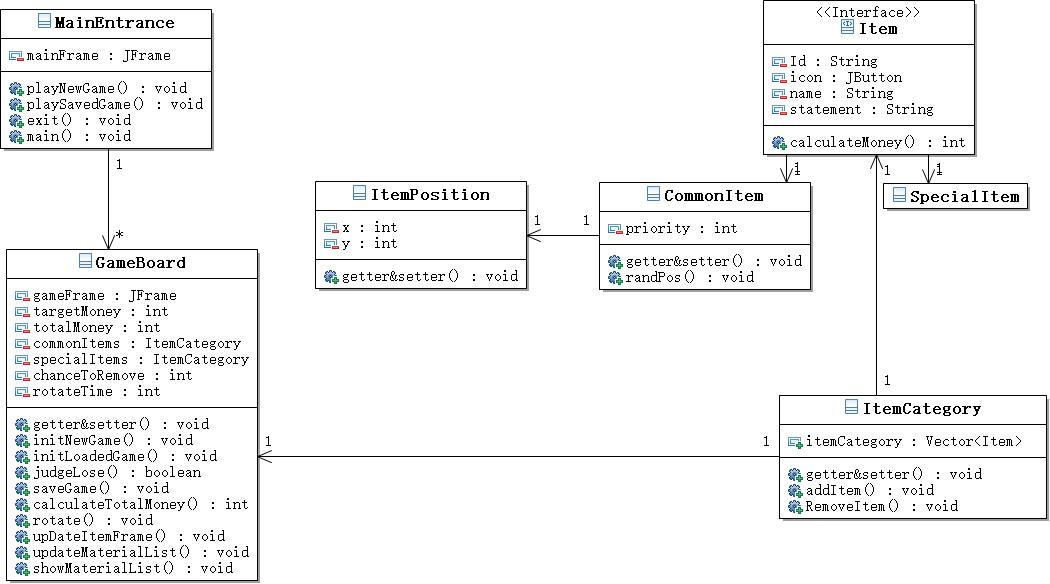
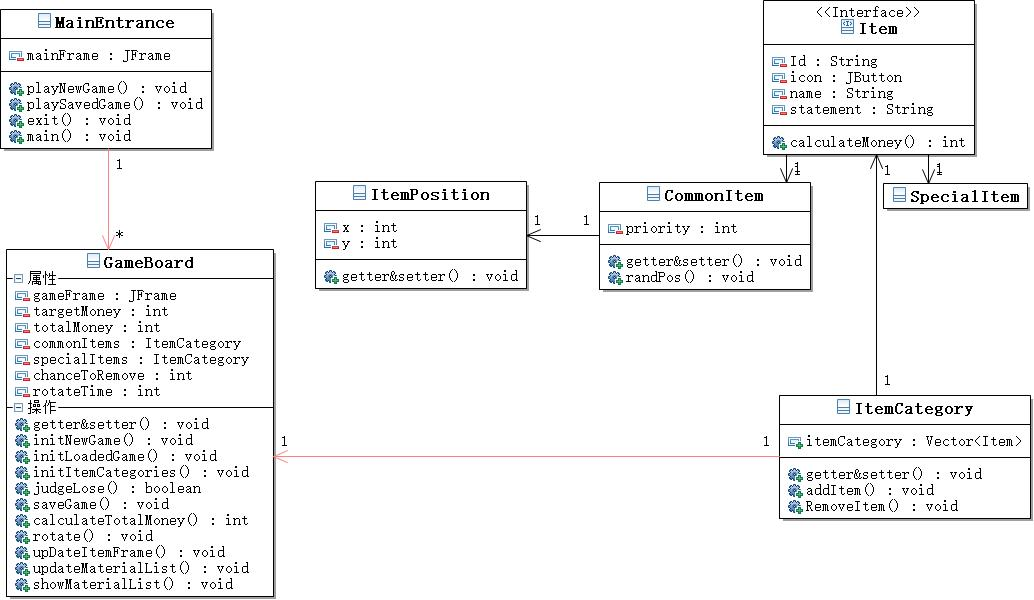
更新了GameBoard,增加了部分函数

diff --git a/LuckyHostProject/src/com/Item/SpecialItem.java b/LuckyHostProject/src/com/Item/SpecialItem.java
@@ -1,0 +1,18 @@
+package com.Item;
+
+import javax.swing.*;
+
+/**
+ * @author Wangminan
+ * @description 对特殊Item的扩展
+ * @see
+ */
+public class SpecialItem extends Item{
+
+    public SpecialItem() {
+    }
+
+    public SpecialItem(String id, String name, JButton icon, String description) {
+        super(id, name, icon, description);
+    }
+}

diff --git a/LuckyHostProject/src/com/game/GameBoard.java b/LuckyHostProject/src/com/game/GameBoard.java
@@ -79,6 +79,13 @@ public class GameBoard {
     }
 
     /**
+     * 基础化所有物品
+     */
+    public void initItemCategories(){
+
+    }
+
+    /**
      * 判断是否输掉游戏
      * @return 判断的结果
      */
